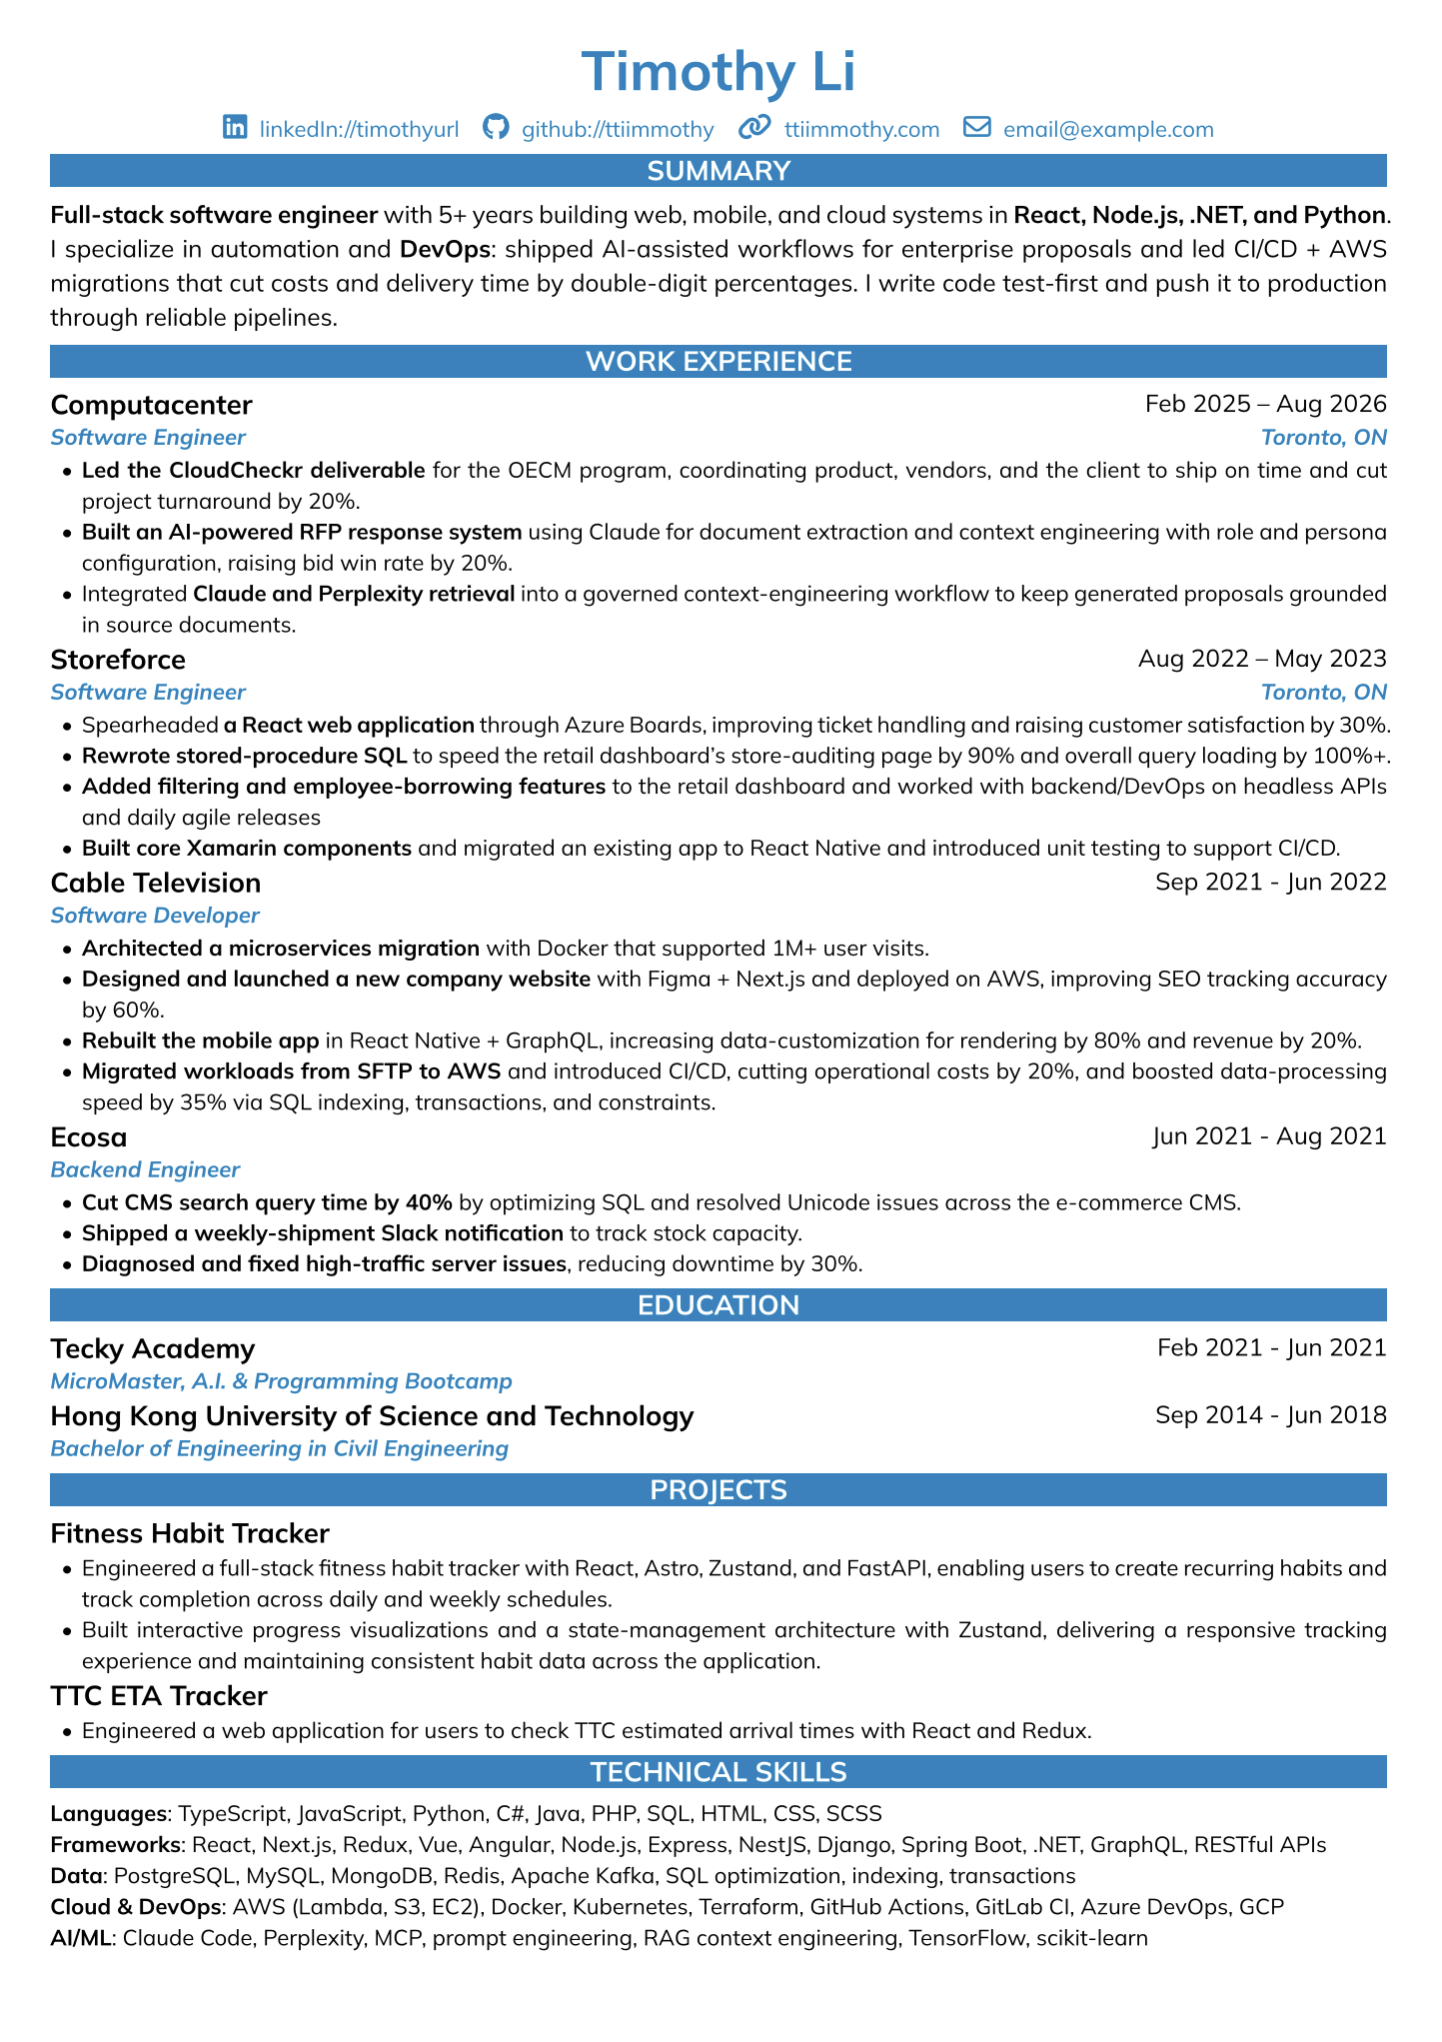
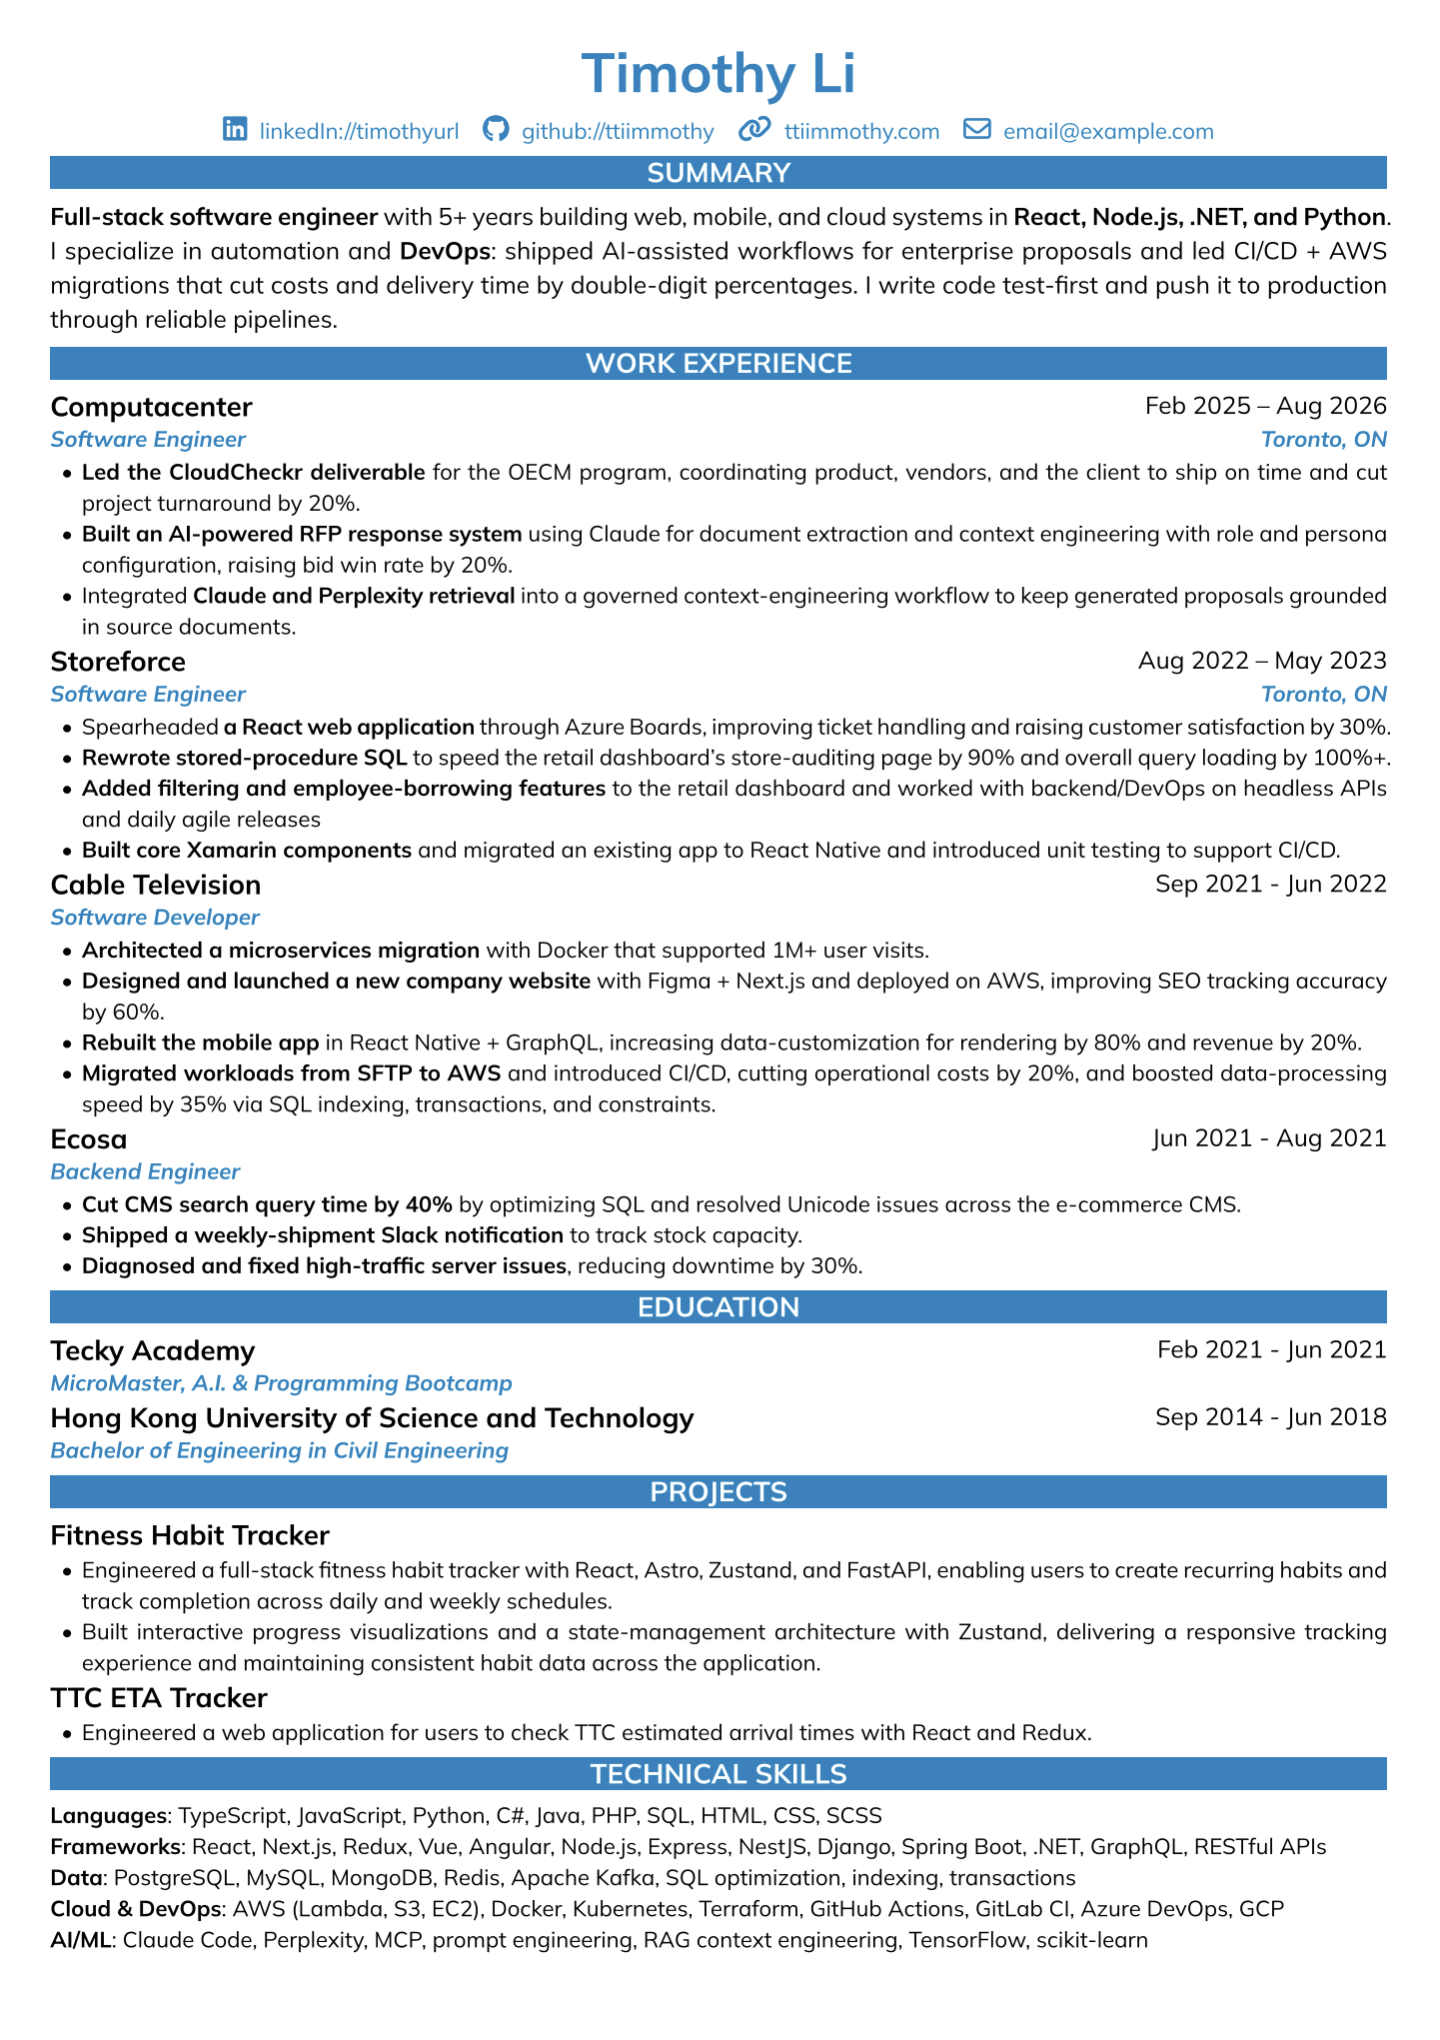
fix: update readme

Changed region(s): [[0.0312, 0.0309, 0.9688, 0.9574]]

diff --git a/README.md b/README.md
@@ -1,6 +1,6 @@
 This is an Resume Template built with Typst, an open source Latex alternative written in Rust, and compiles to PDF.
 
-To compile it to pdf, make sure typst is installed. The provided flake.nix and .envrc is useful if you have nix and direnv installed. This template using the Mulish Google Font and is provided in the `assets/fonts` directory.
+To compile it to pdf, make sure typst is installed. The provided flake.nix and .envrc is useful if you have nix and direnv installed. This template using the Mulish Google Font and Font Awesome 6. The fonts are provided in the `assets/fonts` directory.
 
 Preview:\
 <img src="assets/images/resume-green.png" width="400px" />
